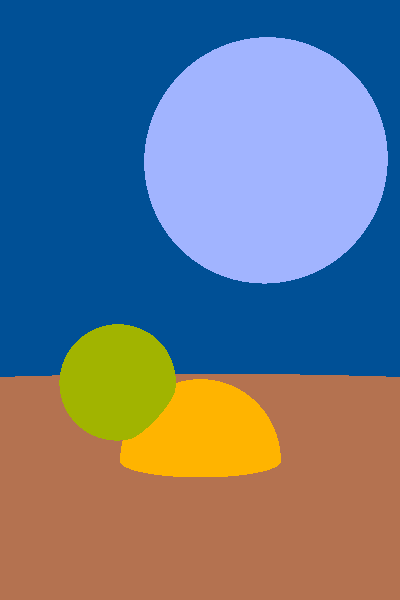
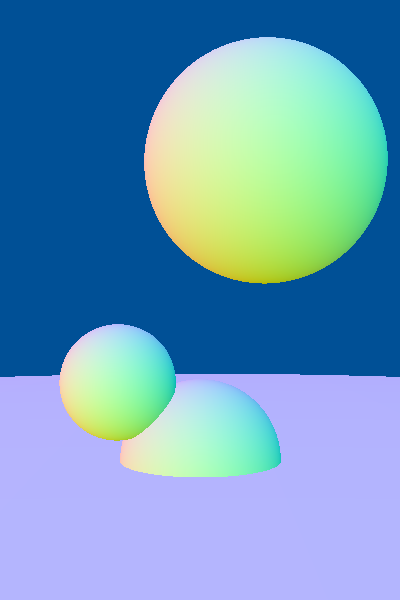
Surface normals.

diff --git a/src/raytrace.cpp b/src/raytrace.cpp
@@ -47,6 +47,10 @@ struct World {
 	Color3f sky_color;
 };
 
+internal Color3f shade(Sphere *sphere, Ray hit, Material mat) {
+	Vector3f n = normalize(sub(hit.p, sphere->p));
+	return Color3f{0.5f*n.x + 0.5f, 0.5f*n.y + 0.5f, 0.5f*n.z + 0.5f};
+}
 
 void render(World *world, Frame *eye_frame, Color4b *img_data, f32 width, f32 height, f32 resolution, Color3f fully_saturated_color) {
 	int img_width = width * resolution;
@@ -74,7 +78,8 @@ void render(World *world, Frame *eye_frame, Color4b *img_data, f32 width, f32 he
 
 			Color3f c = world->sky_color;
 			if (sphere_nearest) {
-				c = world->materials[sphere_nearest->material_id].color;
+				Ray hit = ray_to_from(pix_ray.p, add(pix_ray.p, mul(sphere_nearest_dist, pix_ray.n)));
+				c = shade(sphere_nearest, hit, world->materials[sphere_nearest->material_id]);
 			}
 
 			img_data[(img_height - 1 - y)*img_width + x] = color_3f_to_4b(c, fully_saturated_color);
